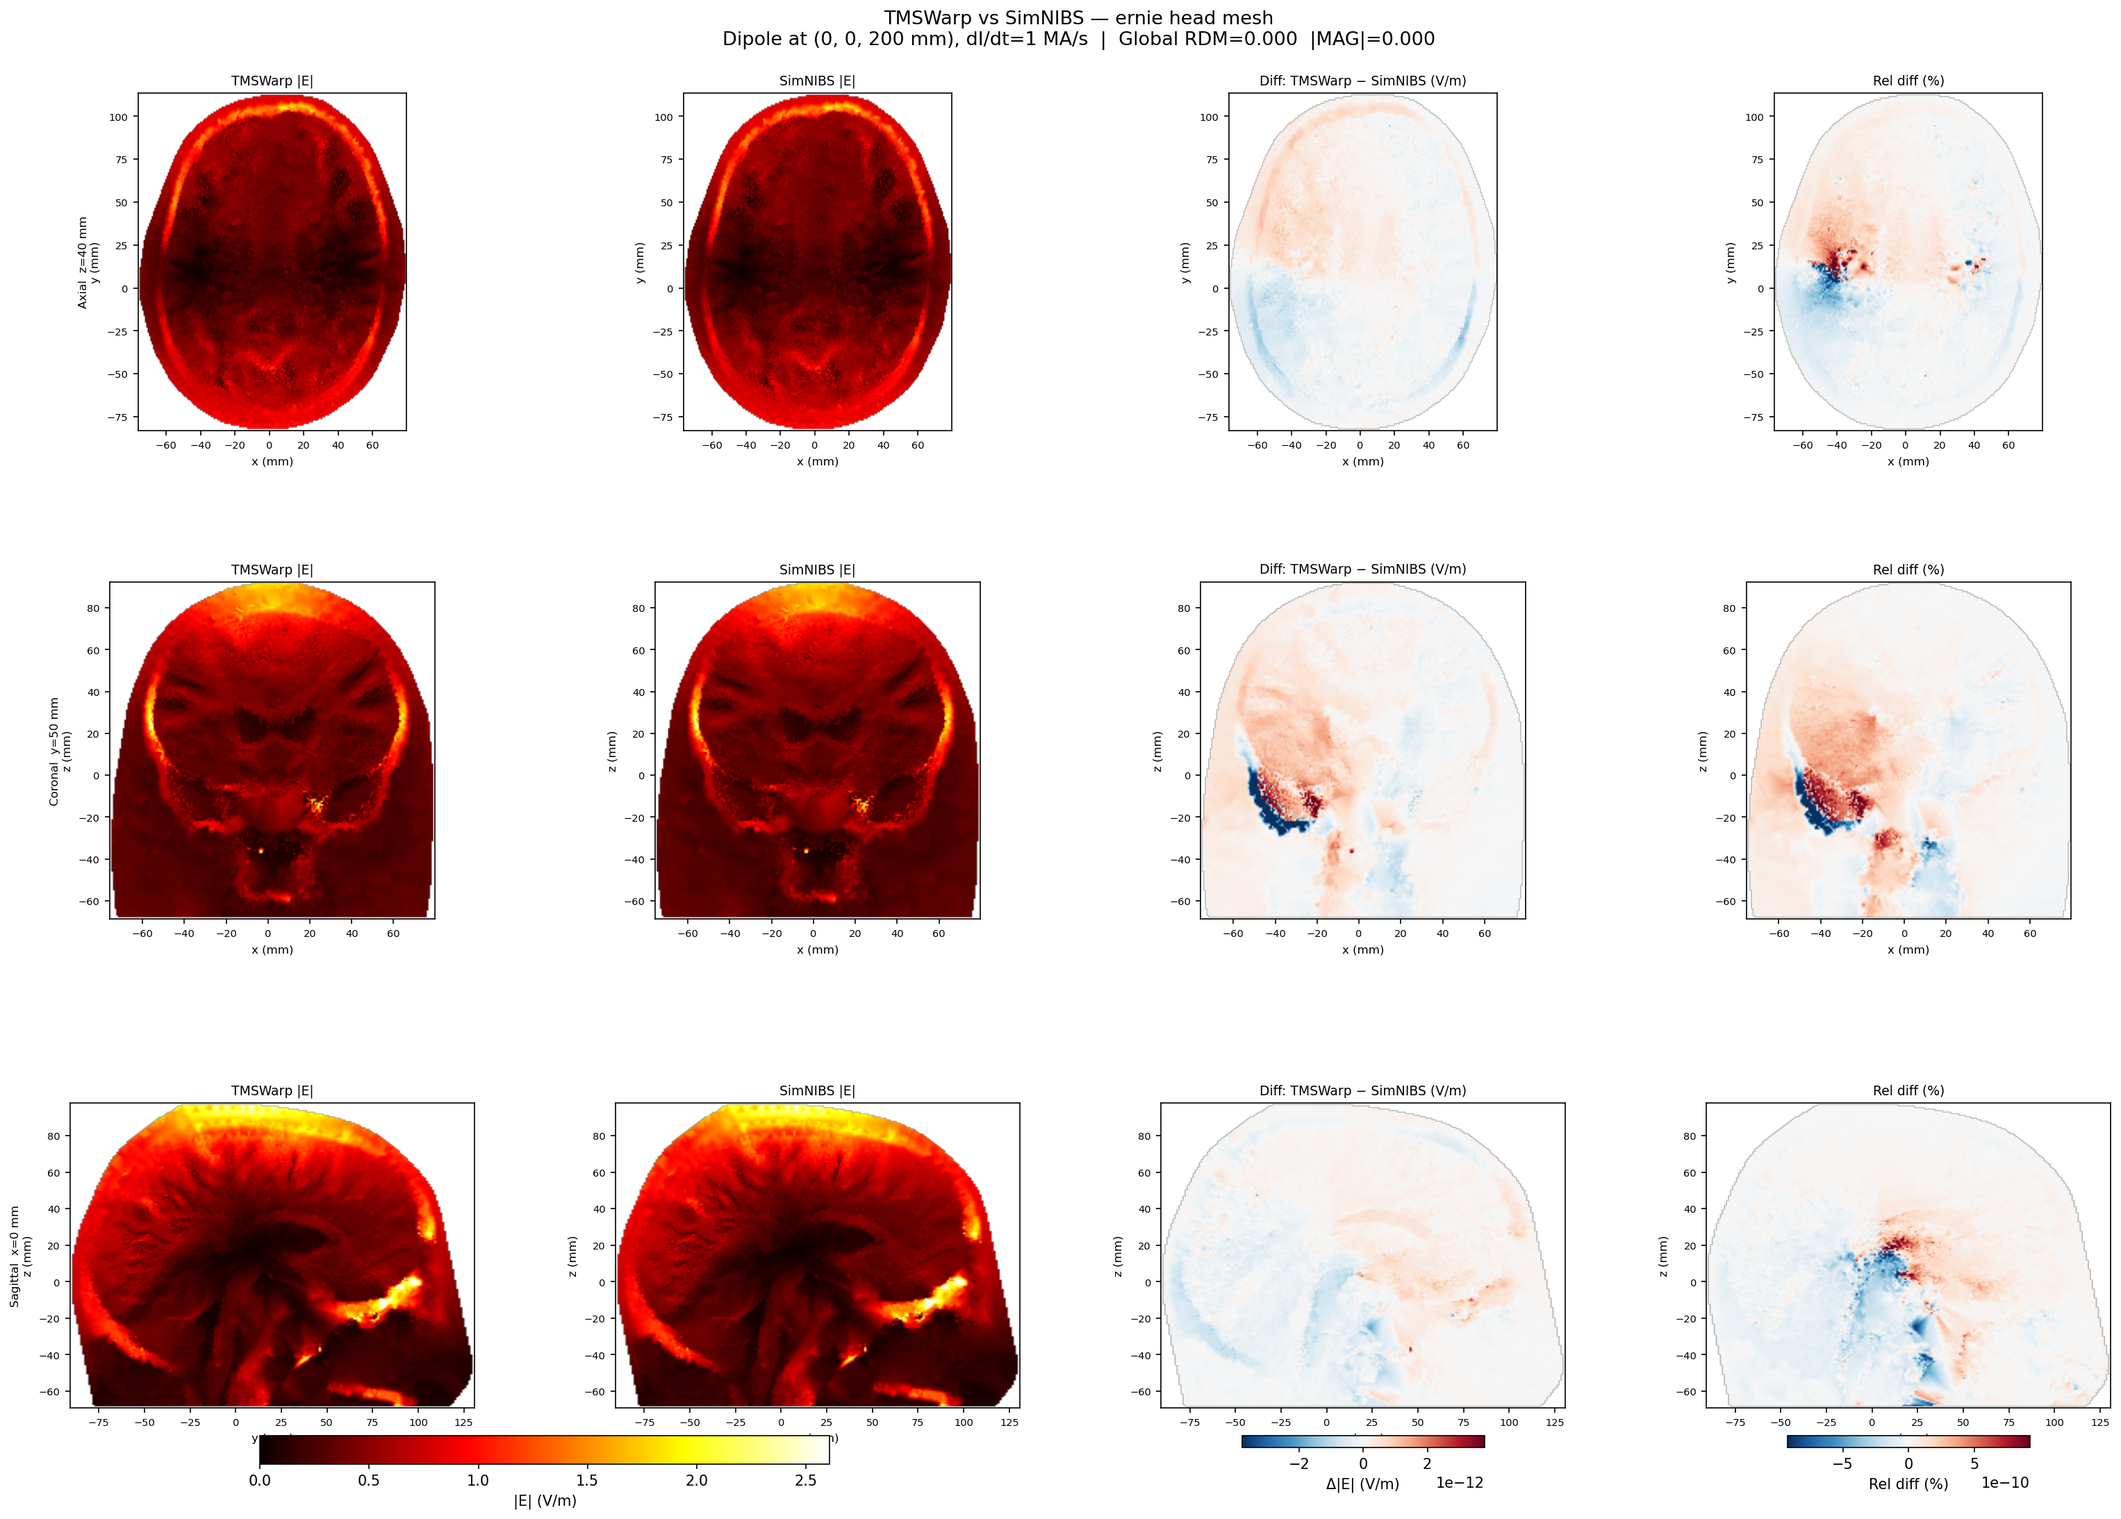
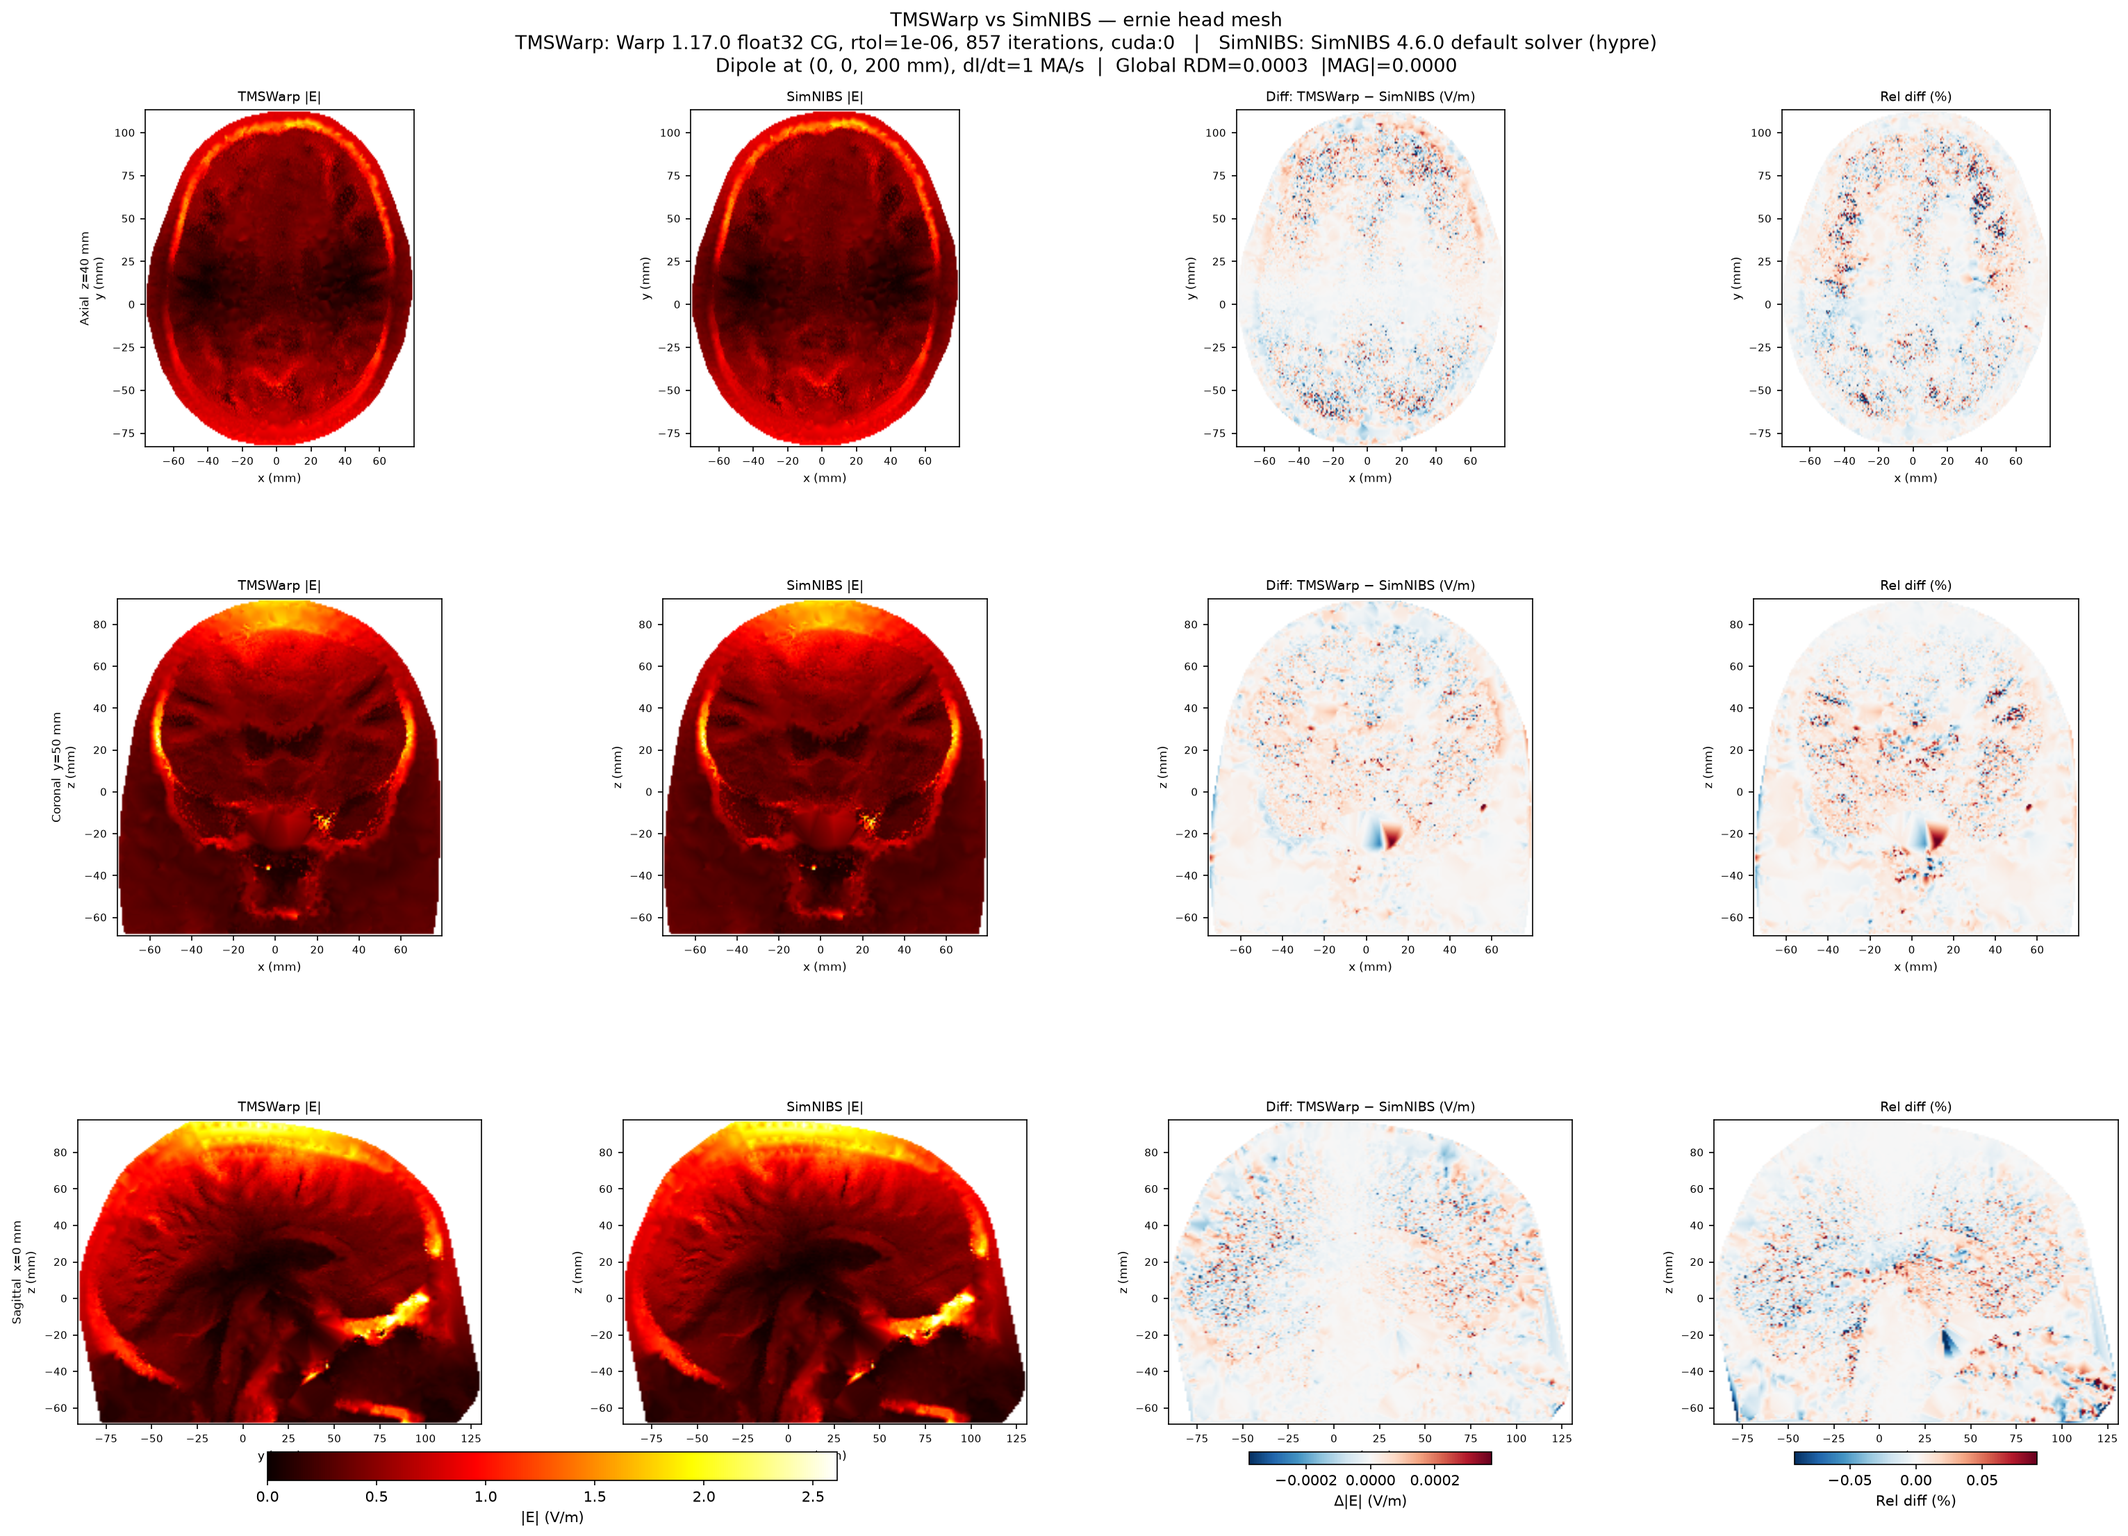
Remake the ernie comparison: Warp GPU solver vs SimNIBS's own solver
ernie_comparison.png now shows the Warp solver (float32 CG, rtol=1e-6,
RTX 3070) against SimNIBS 4.6.0 solving with its default solver (PETSc
CG with hypre BoomerAMG): RDM 0.0003. It used to show the NumPy solver
against SimNIBS's assembled system solved with SciPy; that comparison,
now also against SimNIBS's own solver, is ernie_comparison_numpy.png.

run_simnibs_efield.py uses SimNIBS's solver by default (--solver scipy
for the old behaviour). ernie_comparison.py takes --solver, --rtol and
--device, and checks that both results are on the same elements.

CLAUDE.md: add the figures and timings, and correct the statement that
the ernie accuracy results were identical on GPU and CPU; both of those
runs were on the GPU because of the device bug.

diff --git a/benchmarks/ernie_comparison.py b/benchmarks/ernie_comparison.py
@@ -10,9 +10,15 @@ Prerequistes
 
 Usage
 -----
-    pixi run python benchmarks/ernie_comparison.py
+    pixi run python benchmarks/ernie_comparison.py                 # Warp solver
+    pixi run python benchmarks/ernie_comparison.py --solver numpy  # NumPy solver
+
+The Warp solver is run to a relative residual of ``--rtol`` (default 1e-6).
+The default tolerance of ``solve_fem_warp()`` stops much earlier; see
+"CG tolerance semantics" in CLAUDE.md.
 """
 
+import argparse
 from pathlib import Path
 
 import matplotlib
@@ -36,6 +42,7 @@ ERNIE_MESH_PATH   = ROOT / "ernie_data.npz"
 SIMNIBS_PATH      = ROOT / "ernie_simnibs_efield.npz"
 TMSWARP_CACHE     = ROOT / "ernie_tmswarp_efield.npz"
 OUTPATH           = ROOT / "ernie_comparison.png"
+OUTPATH_NUMPY     = ROOT / "ernie_comparison_numpy.png"
 
 # ---------------------------------------------------------------------------
 # Dipole parameters (must match scripts/run_simnibs_efield.py)
@@ -57,6 +64,49 @@ TISSUE_NAMES = {1: "WM", 2: "GM", 3: "CSF", 4: "skull", 5: "scalp", 6: "eyes"}
 # ---------------------------------------------------------------------------
 # Load TMSWarp mesh and compute E-field
 # ---------------------------------------------------------------------------
+
+def _load_mesh():
+    if not ERNIE_MESH_PATH.exists():
+        raise FileNotFoundError(
+            f"Missing {ERNIE_MESH_PATH}\nRun: /path/to/SimNIBS-4.5/.../python scripts/fetch_ernie.py"
+        )
+    data = np.load(ERNIE_MESH_PATH)
+    mesh = TetMesh(
+        nodes=data["nodes"].astype(np.float64),
+        elements=data["elements"].astype(np.int32),
+        conductivity=data["conductivity"].astype(np.float64),
+    )
+    return mesh, data["tag1"].astype(np.int32)
+
+
+def compute_warp_efield(rtol, device):
+    """Solve with the Warp solver (float32 CG) to a relative residual.
+
+    Returns (E, bary_mm, tag1, description).
+    """
+    import warp as wp
+
+    from tmswarp.solver_warp import WarpFEMContext
+
+    mesh, tag1 = _load_mesh()
+    dAdt = magnetic_dipole_dadt(DIPOLE_POS_M, DIPOLE_MOMENT, DIDT, mesh.nodes)
+    ctx = WarpFEMContext(mesh, device=device)
+    err, iters, converged = ctx.solve(dAdt, rtol=rtol, max_iters=20000)
+    if not converged:
+        raise RuntimeError(
+            f"Warp CG did not reach rtol={rtol:g} (residual {err:.2e} "
+            f"after {iters} iterations)"
+        )
+    E = compute_efield_at_elements(mesh, ctx.get_phi(), dAdt, gradient_operator(mesh))
+    bary = element_barycenters(mesh) * 1000  # m → mm
+    description = (
+        f"Warp {wp.__version__} float32 CG, rtol={rtol:g}, "
+        f"{iters} iterations, {ctx._device}"
+    )
+    print(f"  {description}")
+    print(f"  TMSWarp |E| mean={np.linalg.norm(E,axis=1).mean():.3f} max={np.linalg.norm(E,axis=1).max():.3f} V/m")
+    return E, bary, tag1, description
+
 
 def load_tmswarp_efield():
     """Load TMSWarp NumPy FEM result from cache, or compute and cache it."""
@@ -104,8 +154,10 @@ def load_simnibs_efield():
     E      = data["E"]
     bary   = data["bary_mm"]
     tag1   = data["tag1"]
+    solver = str(data["solver"]) if "solver" in data else "SimNIBS"
+    print(f"  {solver}")
     print(f"  SimNIBS  |E| mean={np.linalg.norm(E,axis=1).mean():.3f} max={np.linalg.norm(E,axis=1).max():.3f} V/m")
-    return E, bary, tag1
+    return E, bary, tag1, solver
 
 
 # ---------------------------------------------------------------------------
@@ -153,8 +205,17 @@ def _axis_labels(axis: int):
 # Main figure
 # ---------------------------------------------------------------------------
 
-def make_comparison_figure(E_tw, bary_tw, E_sn, bary_sn):
+def make_comparison_figure(E_tw, bary_tw, E_sn, bary_sn,
+                           tmswarp_label="TMSWarp", simnibs_label="SimNIBS",
+                           outpath=OUTPATH):
     """Create a 3-row × 4-column figure comparing TMSWarp vs SimNIBS slices."""
+
+    # The difference maps and the RDM compare element by element
+    if E_tw.shape != E_sn.shape or not np.allclose(bary_tw, bary_sn, atol=1e-3):
+        raise ValueError(
+            "TMSWarp and SimNIBS results are not on the same elements in the "
+            "same order"
+        )
 
     mag_tw = np.linalg.norm(E_tw, axis=1)
     mag_sn = np.linalg.norm(E_sn, axis=1)
@@ -251,13 +312,15 @@ def make_comparison_figure(E_tw, bary_tw, E_sn, bary_sn):
     mag_val = float(abs(np.log(np.linalg.norm(E_tw) / np.linalg.norm(E_sn))))
     fig.suptitle(
         f"TMSWarp vs SimNIBS — ernie head mesh\n"
+        f"TMSWarp: {tmswarp_label}   |   SimNIBS: {simnibs_label}\n"
         f"Dipole at (0, 0, 200 mm), dI/dt=1 MA/s  |  "
-        f"Global RDM={rdm_val:.3f}  |MAG|={mag_val:.3f}",
-        fontsize=13, y=0.98,
+        f"Global RDM={rdm_val:.4f}  |MAG|={mag_val:.4f}",
+        fontsize=13, y=0.99,
     )
 
-    fig.savefig(str(OUTPATH), dpi=150, bbox_inches="tight")
-    print(f"\nSaved: {OUTPATH}")
+    fig.savefig(str(outpath), dpi=150, bbox_inches="tight")
+    print(f"\nGlobal RDM={rdm_val:.4f}  |MAG|={mag_val:.4f}")
+    print(f"Saved: {outpath}")
     plt.close()
 
 
@@ -268,18 +331,36 @@ def make_comparison_figure(E_tw, bary_tw, E_sn, bary_sn):
 if __name__ == "__main__":
     import time
 
+    parser = argparse.ArgumentParser(description=__doc__.splitlines()[0])
+    parser.add_argument("--solver", default="warp", choices=("warp", "numpy"),
+                        help="TMSWarp solver to compare (default: warp)")
+    parser.add_argument("--rtol", type=float, default=1e-6,
+                        help="Relative CG residual for the Warp solver")
+    parser.add_argument("--device", default=None,
+                        help="Warp device, e.g. cuda:0 or cpu (default: preferred)")
+    args = parser.parse_args()
+
     print("=" * 66)
     print("TMSWarp vs SimNIBS ernie comparison")
     print("=" * 66)
 
     print("\nLoading SimNIBS result ...")
-    E_sn, bary_sn, tag1_sn = load_simnibs_efield()
+    E_sn, bary_sn, tag1_sn, simnibs_label = load_simnibs_efield()
 
     print("\nComputing TMSWarp result ...")
     t0 = time.perf_counter()
-    E_tw, bary_tw, tag1_tw = load_tmswarp_efield()
+    if args.solver == "warp":
+        E_tw, bary_tw, tag1_tw, tmswarp_label = compute_warp_efield(
+            args.rtol, args.device
+        )
+        outpath = OUTPATH
+    else:
+        E_tw, bary_tw, tag1_tw = load_tmswarp_efield()
+        tmswarp_label = "NumPy float64, SciPy direct solve"
+        outpath = OUTPATH_NUMPY
     t_tw = time.perf_counter() - t0
     print(f"  TMSWarp solve: {t_tw:.1f} s")
 
     print("\nGenerating comparison figure ...")
-    make_comparison_figure(E_tw, bary_tw, E_sn, bary_sn)
+    make_comparison_figure(E_tw, bary_tw, E_sn, bary_sn,
+                           tmswarp_label, simnibs_label, outpath)

diff --git a/scripts/run_simnibs_efield.py b/scripts/run_simnibs_efield.py
@@ -2,7 +2,12 @@
 
 Must be run with SimNIBS Python:
 
-    /path/to/SimNIBS-4.5/simnibs_env/bin/python scripts/run_simnibs_efield.py
+    /path/to/SimNIBS/simnibs_env/bin/python scripts/run_simnibs_efield.py
+
+By default the system is solved with SimNIBS's own solver (its default is
+PETSc CG with a hypre BoomerAMG preconditioner).  Pass ``--solver scipy`` to
+solve SimNIBS's assembled system with SciPy's sparse direct solver instead,
+which was the behaviour of earlier versions of this script.
 
 Prerequisite: ernie.msh must exist (extracted when fetch_ernie.py was run, or
 available in the ernie_dataset/ directory).  The script searches common locations.
@@ -22,12 +27,22 @@ ernie_simnibs_efield.npz  in the TMSWarp directory:
     tag1    int32   (N_elem,)    tissue tag
 """
 
+import argparse
 import os
 import sys
 import time
 
 import numpy as np
 import scipy.sparse.linalg as spalg
+
+parser = argparse.ArgumentParser(description=__doc__.splitlines()[0])
+parser.add_argument(
+    "--solver", default="simnibs", choices=("simnibs", "scipy"),
+    help="simnibs: SimNIBS's own default solver; scipy: spsolve on "
+         "SimNIBS's assembled system",
+)
+parser.add_argument("--mesh", default=None, help="Path to ernie.msh")
+args = parser.parse_args()
 
 # Add SimNIBS to path
 SIMNIBS_SITE = (
@@ -42,6 +57,7 @@ for candidate in [
         sys.path.insert(0, candidate)
         break
 
+import simnibs
 from simnibs.mesh_tools import mesh_io
 from simnibs.simulation import fem as simfem
 
@@ -55,6 +71,9 @@ ERNIE_CANDIDATES = [
     "/tmp/ernie_lowres/m2m_ernie/ernie.msh",
     os.path.join(ROOT, "ernie_dataset", "m2m_ernie", "ernie.msh"),
 ]
+
+if args.mesh:
+    ERNIE_CANDIDATES.insert(0, args.mesh)
 
 ernie_path = None
 for c in ERNIE_CANDIDATES:
@@ -121,9 +140,18 @@ b = S.assemble_rhs(dAdt_node)
 t_assemble = time.perf_counter() - t0
 print(f"  Assembly: {t_assemble:.2f} s")
 
-print("Solving (scipy spsolve) ...")
 t1 = time.perf_counter()
-x = spalg.spsolve(S.A, b)
+if args.solver == "simnibs":
+    solver_name = (f"SimNIBS {simnibs.__version__} default solver "
+                   f"({getattr(S, '_solver_options', 'default')})")
+    print(f"Solving ({solver_name}) ...")
+    x = S.solve(b)
+else:
+    solver_name = f"SimNIBS {simnibs.__version__} assembly, SciPy spsolve"
+    print(f"Solving ({solver_name}) ...")
+    # S.A is the full matrix, without the grounded node eliminated.  E does
+    # not depend on the constant offset this leaves in the potential.
+    x = spalg.spsolve(S.A, b)
 t_solve = time.perf_counter() - t1
 print(f"  Solve:    {t_solve:.2f} s")
 print(f"  Total:    {t_assemble + t_solve:.2f} s")
@@ -147,7 +175,8 @@ print(f"  mean={mag_E.mean():.3f}  max={mag_E.max():.3f}  p99={np.percentile(mag
 # ---------------------------------------------------------------------------
 # Save
 # ---------------------------------------------------------------------------
-np.savez_compressed(OUTPATH, E=E, bary_mm=bary_mm, tag1=tag1)
+np.savez_compressed(OUTPATH, E=E, bary_mm=bary_mm, tag1=tag1,
+                    solver=np.array(solver_name))
 size_mb = os.path.getsize(OUTPATH) / 1e6
 print(f"\nSaved: {OUTPATH}  ({size_mb:.1f} MB)")
 print("\nNow run the comparison figure:")

diff --git a/CLAUDE.md b/CLAUDE.md
@@ -54,10 +54,23 @@ example dataset (not committed to git — it's 19 MB and separately licensed):
 
 The script downloads from `https://github.com/simnibs/example-dataset/releases/download/v4.0-lowres/ernie_lowres_V2.zip`.
 
-**Comparison figure**: `ernie_comparison.png` — axial/coronal/sagittal slices of |E|, with
-TMSWarp vs SimNIBS side-by-side and absolute + relative difference maps.
-Generate via: `scripts/run_simnibs_efield.py` (SimNIBS Python) then `benchmarks/ernie_comparison.py` (pixi).
-TMSWarp NumPy FEM and SimNIBS FEM are numerically identical (RDM=0.000, |MAG|=0.000).
+**Comparison figures**: axial/coronal/sagittal slices of |E|, with TMSWarp vs
+SimNIBS side-by-side and absolute + relative difference maps.
+
+| Figure | TMSWarp solver | RDM | \|MAG\| |
+|--------|----------------|-----|---------|
+| `ernie_comparison.png` | Warp float32 CG, rtol=1e-6, RTX 3070 | 0.0003 | 0.0000 |
+| `ernie_comparison_numpy.png` | NumPy float64, SciPy direct solve | 0.0000 | 0.0000 |
+
+Both compare against SimNIBS 4.6.0 solving with its own default solver (PETSc
+CG with hypre BoomerAMG).  Before September 2026 `ernie_comparison.png` showed
+the NumPy solver against SimNIBS's assembled system solved with SciPy.
+
+Generate via `scripts/run_simnibs_efield.py` (SimNIBS Python; `--solver scipy`
+gives the old behaviour), then `benchmarks/ernie_comparison.py` (`--solver
+warp` is the default, `--solver numpy` writes the second figure).  The dipole
+field is computed with the same formula on both sides, so the figures compare
+the FEM solves, not the coil models.
 
 Results on the ernie mesh (dipole at z=200mm, 6 tissues, Apple Silicon CPU):
 
@@ -69,8 +82,8 @@ Results on the ernie mesh (dipole at z=200mm, 6 tissues, Apple Silicon CPU):
 **The Warp row is an under-converged solve, not a float32 limit.**  The
 difference from NumPy (RDM = 0.53, MAG = 0.21) comes from the default CG
 stopping tolerance.  Measured September 2026 on the same mesh and dipole,
-cold start, against a float64 CG reference (Jacobi, rtol=1e-10); results
-were identical on an RTX 3070 and on CPU (Warp 1.17.0):
+cold start, on an RTX 3070 (Warp 1.17.0), against a float64 CG reference
+(Jacobi, rtol=1e-10):
 
 | Warp float32 solve                     | CG iterations | RDM    | MAG    | mean / max V/m |
 |----------------------------------------|---------------|--------|--------|----------------|
@@ -84,6 +97,21 @@ So float32 agrees with the float64 reference to RDM = 0.0003 on this mesh,
 despite the 165:1 conductivity contrast (skull 0.01 vs CSF 1.654 S/m).  The
 111 s timing above is for the under-converged solve; a converged one takes
 about four times as many iterations.
+
+Timing on the same machine (12 cores, RTX 3070), ernie, cold start:
+
+| Solver | Setup | Solve | RDM vs SimNIBS |
+|--------|-------|-------|----------------|
+| SimNIBS 4.6.0, hypre, CPU | 2.7 s assembly + 0.6 s solver setup | 1.7 s | — |
+| Warp GPU, rtol=1e-3 | 0.7 s assembly | 0.12 s (325 iterations) | 0.1208 |
+| Warp GPU, rtol=1e-4 | 0.7 s | 0.22 s (700) | 0.0019 |
+| Warp GPU, rtol=1e-6 | 0.7 s | 0.26 s (857) | 0.0003 |
+| Warp CPU, rtol=1e-3 | 12 s | 194 s (330) | 0.1209 |
+| Warp CPU, rtol=1e-4 | 12 s | 410 s (700) | 0.0020 |
+| Warp CPU, rtol=1e-6 | 12 s | 500 s (860) | 0.0003 |
+| NumPy, SciPy direct | — | 1098 s in total | 0.0000 |
+
+The NumPy run shared the machine with other jobs.
 
 ### Convergence (Delaunay meshes, P1 elements)
 
@@ -150,6 +178,15 @@ iteration, and the best position found is the one returned.
 On ernie (RTX 3070, targets at (-40,-10,60), (-40,40,40), (30,-80,10) mm) the
 final |E| at the target went from 32.68 / 16.22 / 67.86 V/m with face-centre
 projection to 35.99 / 18.22 / 71.93 V/m.
+
+### Device handling
+
+Until September 2026 `solve_fem_warp()` and `WarpFEMContext` ignored a
+requested device of `"cpu"` on machines with CUDA: `warp.fem` allocates on
+Warp's default device, so everything ran on the GPU.  They now do all their
+work inside `wp.ScopedDevice(device)`.  Any "Warp CPU" number measured on a
+CUDA machine before that fix was a GPU run.  The CPU-only benchmark results
+in `benchmarks/results/` are not affected.
 
 ### CG tolerance semantics
 
